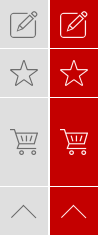
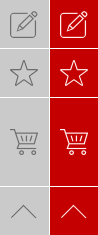
右侧工具栏支持不同分辨率

Changed region(s): [[0.4898, 0.0, 0.5204, 1.0]]

diff --git a/gcxz/themes/store/default/styles/default/css/base.css b/gcxz/themes/store/default/styles/default/css/base.css
@@ -344,9 +344,9 @@ body {
 
 .rightTools {
   position: fixed;
-  left: 50%;
-  top: 30%;
-  margin-left: 490px; }
+  right: 5%;
+  z-index: 9999;
+  top: 30%; }
 
 .rightTools li > a {
   width: 48px;
@@ -398,12 +398,12 @@ body {
 
 .rightTools li > a.rt4:hover {
   background-position: -50px -186px; }
-
+	
 .toolsShoppingCar {
   position: fixed;
   top: 100px;
-  left: 50%;
-  margin-left: 130px;
+  right: 5%;
+  margin-right: 60px;
   z-index: 99;
   width: 350px;
   border: 1px solid #e0e0e0;
@@ -520,13 +520,13 @@ body {
   position: fixed;
   width: 260px;
   padding: 20px;
-  left: 50%;
+  right: 5%;
+  margin-right: 60px;	
   top: 20%;
   background-color: #ebebeb;
   border: 1px solid #808080;
   z-index: 99;
-  color: #b9aeae;
-  margin-left: 178px; }
+  color: #b9aeae; }
 
 .toolsLogin:before, .toolsLogin:after {
   content: "";

diff --git a/gcxz/themes/mall/default/styles/default/css/base.css b/gcxz/themes/mall/default/styles/default/css/base.css
@@ -344,9 +344,9 @@ body {
 
 .rightTools {
   position: fixed;
-  left: 50%;
-  top: 30%;
-  margin-left: 490px; }
+  right: 5%;
+  z-index: 9999;
+  top: 30%; }
 
 .rightTools li > a {
   width: 48px;
@@ -402,8 +402,8 @@ body {
 .toolsShoppingCar {
   position: fixed;
   top: 100px;
-  left: 50%;
-  margin-left: 130px;
+  right: 5%;
+  margin-right: 60px;
   z-index: 99;
   width: 350px;
   border: 1px solid #e0e0e0;
@@ -520,13 +520,13 @@ body {
   position: fixed;
   width: 260px;
   padding: 20px;
-  left: 50%;
+  right: 5%;
+  margin-right: 60px;
   top: 20%;
   background-color: #ebebeb;
   border: 1px solid #808080;
   z-index: 99;
-  color: #b9aeae;
-  margin-left: 178px; }
+  color: #b9aeae; }
 
 .toolsLogin:before, .toolsLogin:after {
   content: "";
